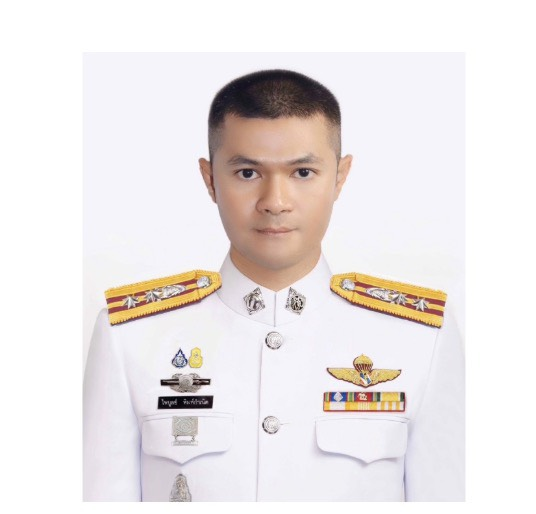
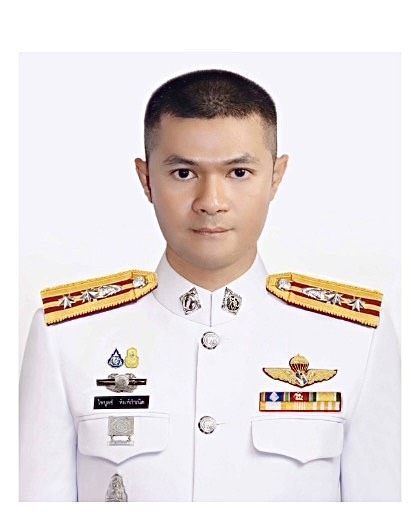
Clean commander labels and update Paiboon photo

diff --git a/commanders.html b/commanders.html
@@ -72,7 +72,6 @@
           <article class="commander-card chain-card main-commander">
             <img src="assets/commanders/aphichon-khanka.jpg" alt="รูปผู้บังคับบัญชา ว่าที่ พ.ต.อ.อภิชน ขันกา">
             <div>
-              <span>ชั้นที่ 1 • ผู้กำกับการ</span>
               <h3>ว่าที่ พ.ต.อ.อภิชน ขันกา</h3>
               <p>ผกก.4 บก.ปพ.<br>กองกำกับการ 4 กองบังคับการปฏิบัติการพิเศษ<br>กองบัญชาการตำรวจสอบสวนกลาง</p>
             </div>
@@ -81,13 +80,11 @@
         <div class="chain-level chain-deputies">
           <article class="commander-card chain-card">
             <img class="person-photo" src="assets/commanders/seri-boonyarat.jpg" alt="รูปผู้บังคับบัญชา พ.ต.ท.เสรี บุญยะรัตน์">
-            <span class="rank-badge">รอง 1</span>
             <h3>พ.ต.ท.เสรี บุญยะรัตน์</h3>
             <p>รอง ผกก.4 บก.ปพ.<br>กองกำกับการ 4 กองบังคับการปฏิบัติการพิเศษ<br>กองบัญชาการตำรวจสอบสวนกลาง</p>
           </article>
           <article class="commander-card chain-card">
             <img class="person-photo" src="assets/commanders/wasin-phanpi.jpg" alt="รูปผู้บังคับบัญชา พ.ต.ท.วศิน พันปี">
-            <span class="rank-badge">รอง 2</span>
             <h3>พ.ต.ท.วศิน พันปี</h3>
             <p>รอง ผกก.4 บก.ปพ.<br>กองกำกับการ 4 กองบังคับการปฏิบัติการพิเศษ<br>กองบัญชาการตำรวจสอบสวนกลาง</p>
           </article>
